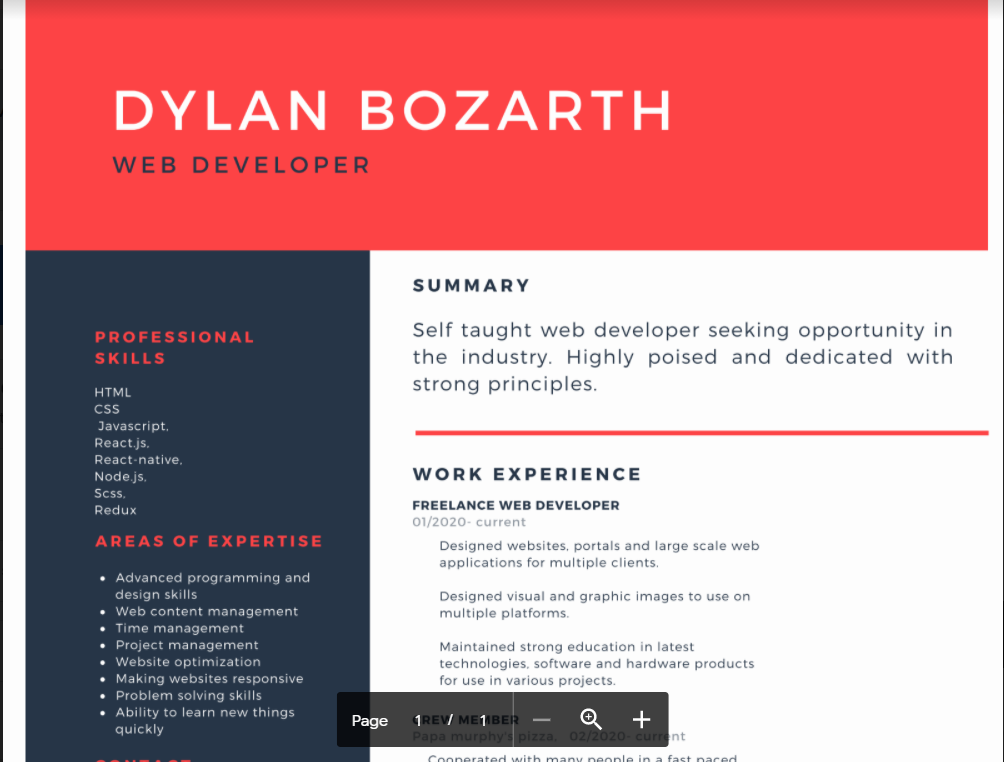
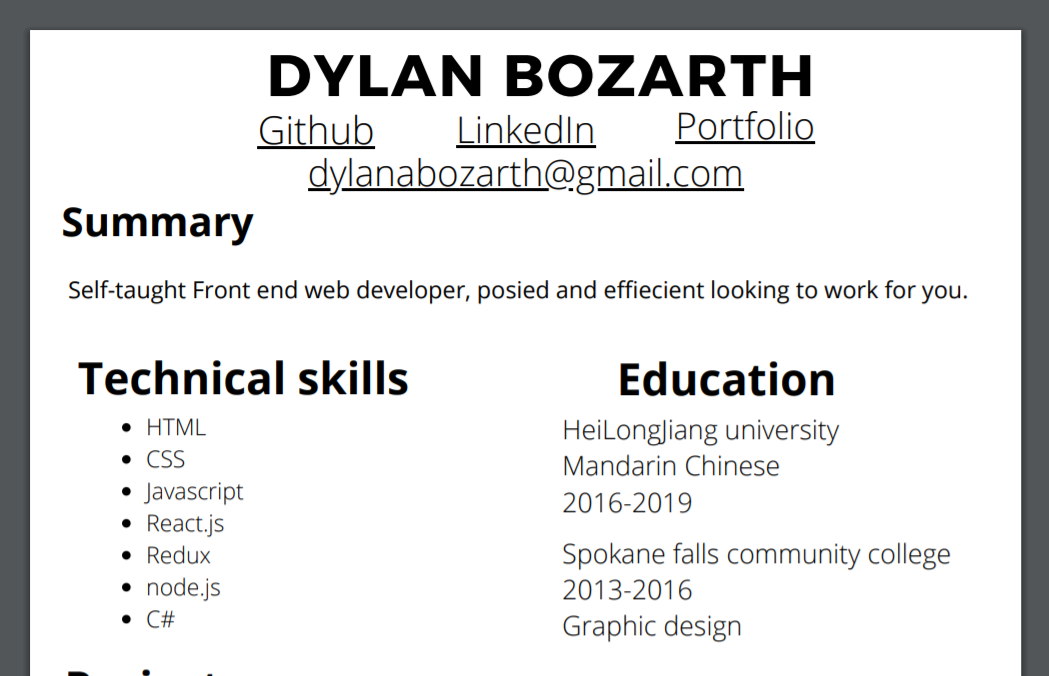
updated resume

diff --git a/src/pages/homepage.js b/src/pages/homepage.js
@@ -27,9 +27,9 @@ function Homepage() {
       transition={pagetransition}
       className="homepagebox container"
     >
-      
-      
-        
+      <div className="text-center">
+      <h1 data-text="Dylan Bozarth" className="homeh1">Dylan Bozarth</h1>
+        </div>
 
         <div className="row">
           <div className="homepagelinkbox  col-sm-4">
@@ -49,7 +49,7 @@ function Homepage() {
               rel="noopener noreferrer"
             >
               <Card
-                imgUrl="./images/resume.jpg"
+                imgUrl="./images/resume.png"
                 title="My Resume"
                 className="homepagecardimg"
               />

diff --git a/src/App.css b/src/App.css
@@ -418,6 +418,21 @@ nav ul li {
 }
 
 /* homepage text effects */
+
+.homeh1:before {
+  content: attr(data-text);
+  position: absolute;
+  overflow: hidden;
+  max-width: 7em;
+  white-space: nowrap;
+  color: #fff;
+  animation: loading 4s infinite;
+}
+@keyframes loading {
+  0% {
+      max-width: 0;
+  }
+}
 .homepagebox {
   text-align: center;
   margin-top: 10vh;
